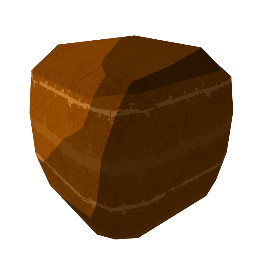
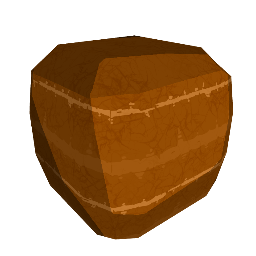
Messing with HUD layout.

diff --git a/scripts/Main/Miniature.ts b/scripts/Main/Miniature.ts
@@ -88,14 +88,16 @@ class Miniature extends Main {
 
 		Main.Scene.clearColor.copyFromFloats(0, 0, 0, 0);
 
-        setTimeout(
-            async () => {
-                for (let i = BlockType.Grass; i < BlockType.Unknown; i++) {
-                    await this.createBlock(i);
-                }
-            },
-            100
-        );
+		window.addEventListener("pointerup", () => {
+			setTimeout(
+				async () => {
+					for (let i = BlockType.Grass; i < BlockType.Unknown; i++) {
+						await this.createBlock(i);
+					}
+				},
+				300
+			);
+		});
 	}
 
 	public async createBlock(blockType: BlockType): Promise<void> {
@@ -123,6 +125,7 @@ class Miniature extends Main {
         vertexData.applyToMesh(block);
 		
 		let material = new PlanetMaterial("chunck-material", this.scene);
+		material.setLightInvDir((new BABYLON.Vector3(- 3, 2, 1)).normalize());
         material.setPlanetPos(new BABYLON.Vector3(0, - 10, 0));
         block.material = material;
 		
@@ -135,7 +138,7 @@ class Miniature extends Main {
                         this.updateCameraPosition();
                         setTimeout(
                             async () => {
-								await this.makeScreenShot("block-icon-" + BlockTypeNames[blockType], false);
+								await this.makeScreenShot("block-icon-" + BlockTypeNames[blockType], 0);
 								block.dispose();
                                 resolve();
                             },
@@ -148,7 +151,7 @@ class Miniature extends Main {
         )
 	}
 
-	public async makeScreenShot(miniatureName?: string, desaturate: boolean = true): Promise<void> {
+	public async makeScreenShot(miniatureName?: string, desaturation: number = 0): Promise<void> {
 		return new Promise<void>(
 			resolve => {
 				requestAnimationFrame(
@@ -173,54 +176,21 @@ class Miniature extends Main {
 									context.drawImage(img, sx, sy, 256, 256, 0, 0, 256, 256);
 
 									let data = context.getImageData(0, 0, 256, 256);
-									for (let i = 0; i < data.data.length / 4; i++) {
-										let r = data.data[4 * i];
-										let g = data.data[4 * i + 1];
-										let b = data.data[4 * i + 2];
-										/*if (r === 0 && g === 255 && b === 0) {
-											data.data[4 * i] = 0;
-											data.data[4 * i + 1] = 0;
-											data.data[4 * i + 2] = 0;
-											data.data[4 * i + 3] = 0;
-										}
-										else*/ if (desaturate) {
+
+									if (desaturation > 0) {
+										for (let i = 0; i < data.data.length / 4; i++) {
+											let r = data.data[4 * i];
+											let g = data.data[4 * i + 1];
+											let b = data.data[4 * i + 2];
 											let desat = (r + g + b) / 3;
 											desat = Math.floor(Math.sqrt(desat / 255) * 255);
-											data.data[4 * i] = desat;
-											data.data[4 * i + 1] = desat;
-											data.data[4 * i + 2] = desat;
-											data.data[4 * i + 3] = 255;
+	
+											data.data[4 * i] = Math.floor(data.data[4 * i] * (1 - desaturation) + desat * desaturation);
+											data.data[4 * i + 1] = Math.floor(data.data[4 * i + 1] * (1 - desaturation) + desat * desaturation);
+											data.data[4 * i + 2] = Math.floor(data.data[4 * i + 2] * (1 - desaturation) + desat * desaturation);
 										}
 									}
-									/*
-									for (let i = 0; i < data.data.length / 4; i++) {
-										let a = data.data[4 * i + 3];
-										if (a === 0) {
-											let hasColoredNeighbour = false;
-											for (let ii = -2; ii <= 2; ii++) {
-												for (let jj = -2; jj <= 2; jj++) {
-													if (ii !== 0 || jj !== 0) {
-														let index = 4 * i + 3;
-														index += ii * 4;
-														index += jj * 4 * 256;
-														if (index >= 0 && index < data.data.length) {
-															let aNeighbour = data.data[index];
-															if (aNeighbour === 255) {
-																hasColoredNeighbour = true;
-															}
-														}
-													}
-												}
-											}
-											if (hasColoredNeighbour) {
-												data.data[4 * i] = 255;
-												data.data[4 * i + 1] = 255;
-												data.data[4 * i + 2] = 255;
-												data.data[4 * i + 3] = 254;
-											}
-										}
-									}
-									*/
+																		
 									context.putImageData(data, 0, 0);
 
 									var tmpLink = document.createElement( 'a' );

diff --git a/scripts/UI/HeadUpDisplay.ts b/scripts/UI/HeadUpDisplay.ts
@@ -57,6 +57,25 @@ class HeadUpDisplay extends BABYLON.Mesh {
                 strokeWidth: 20
             })
         );
+        hudSlika.add(
+            new SlikaPath({
+                points: [
+                    M, 500 + M + L1,
+                    M + L1, 500 + M,
+                    (500 - M), 500 + M,
+                    (500 - M), 500 + (500 - M) - L1,
+                    (500 - M) - L2, 500 + (500 - M) - L1,
+                    (500 - M) - L2 - L1, 500 + (500 - M),
+                    M, 500 + (500 - M)
+                ],
+                close: true,
+                fillColor: BABYLON.Color3.Black(), 
+                fillAlpha: 0.3,
+                strokeColor: BABYLON.Color3.White(), 
+                strokeAlpha: 0.5,
+                strokeWidth: 10
+            })
+        );
 
         let angularMargin = 0.04;
         let size = 0.055;
@@ -98,7 +117,13 @@ class HeadUpDisplay extends BABYLON.Mesh {
             let beta = - yAngleSide * 0.5 + angularMargin + (yAngleSide - 2 * angularMargin) * b / 9;
 
             let hudLateralTile = new BABYLON.Mesh("hud-lateral-tile-" + b);
-            VertexDataUtils.CreatePlane(size, size, undefined, undefined, 0, 0.5, 0.5, 1).applyToMesh(hudLateralTile);
+            let highlight = Math.random() > 0.5
+            if (highlight) {
+                VertexDataUtils.CreatePlane(size, size, undefined, undefined, 0, 0.5, 0.5, 1).applyToMesh(hudLateralTile);
+            }
+            else {
+                VertexDataUtils.CreatePlane(size, size, undefined, undefined, 0, 0, 0.5, 0.5).applyToMesh(hudLateralTile);
+            }
             hudLateralTile.layerMask = 0x10000000;
             hudLateralTile.alphaIndex = 1;
             hudLateralTile.parent = this;
@@ -108,7 +133,9 @@ class HeadUpDisplay extends BABYLON.Mesh {
             hudLateralTile.position.z = Math.cos(beta);
             hudLateralTile.rotationQuaternion = BABYLON.Quaternion.Identity();
             VMath.QuaternionFromZYAxisToRef(hudLateralTile.position, BABYLON.Axis.Y, hudLateralTile.rotationQuaternion);
-            hudLateralTile.rotateAround(BABYLON.Vector3.Zero(), BABYLON.Axis.Y, - (xAngle * 0.5 - angularMargin));
+            let h = Math.abs(beta / yAngleSide);
+            h = h * h;
+            hudLateralTile.rotateAround(BABYLON.Vector3.Zero(), BABYLON.Axis.Y, - (xAngle * 0.5 - h * xAngle * 0.08 - angularMargin));
 
 
             let v0 = b * 0.1;

diff --git a/scripts/Slika/SlikaPath.ts b/scripts/Slika/SlikaPath.ts
@@ -136,15 +136,15 @@ class SlikaPath extends SlikaElement {
 
         if (this.prop.points.length > 0) {
 
-            let fillStyle = "none";
+            let fillStyle = "";
             if (this.prop.fillColor) {
                 fillStyle = this.prop.fillColor.toHexString() + Math.floor((this.prop.fillAlpha * this.alpha) * 255).toString(16).padStart(2, "0");
             }
-            let strokeStyle = "none";
+            let strokeStyle = "";
             if (this.prop.strokeColor) {
                 strokeStyle = this.prop.strokeColor.toHexString() + Math.floor((this.prop.strokeAlpha * this.alpha) * 255).toString(16).padStart(2, "0");
             }
-            let outlineStyle = "none";
+            let outlineStyle = "";
             if (this.prop.outlineWidth > 0) {
                 outlineStyle = this.prop.outlineColor.toHexString() + Math.floor((this.prop.outlineAlpha * this.alpha) * 255).toString(16).padStart(2, "0");
             }
@@ -163,16 +163,16 @@ class SlikaPath extends SlikaElement {
                 context.closePath();
             }
 
-            if (outlineStyle != "none") {
+            if (outlineStyle != "") {
                 context.lineWidth = lineWidth + this.prop.outlineWidth * 2 * hsf;
                 context.strokeStyle = outlineStyle;
                 context.stroke();
             }
-            if (fillStyle != "none") {
+            if (fillStyle != "") {
                 context.fillStyle = fillStyle;
                 context.fill();
             }
-            if (strokeStyle != "none") {
+            if (strokeStyle != "") {
                 context.strokeStyle = strokeStyle;
                 context.lineWidth = lineWidth;
                 context.stroke();

diff --git a/scripts/Planet/PlanetMaterial.ts b/scripts/Planet/PlanetMaterial.ts
@@ -7,6 +7,7 @@ class PlanetMaterial extends BABYLON.ShaderMaterial {
     private _seaLevelTexture: BABYLON.Texture;
     private _useVertexColor: number;
     private _planetPos: BABYLON.Vector3 = BABYLON.Vector3.Zero();
+    private _lightInvDirW: BABYLON.Vector3 = BABYLON.Vector3.One().normalize();
 
     constructor(name: string, scene: BABYLON.Scene) {
         super(
@@ -35,7 +36,6 @@ class PlanetMaterial extends BABYLON.ShaderMaterial {
                 ]
             }
         );
-        this.setVector3("lightInvDirW", BABYLON.Vector3.One().normalize());
 
         this._terrainColors = [];
         this._terrainColors[BlockType.None] = new BABYLON.Color3(0, 0, 0);
@@ -96,6 +96,7 @@ class PlanetMaterial extends BABYLON.ShaderMaterial {
         iceTexture.wrapU = 1;
         iceTexture.wrapV = 1;
 
+        this.setVector3("lightInvDirW", this._lightInvDirW);
         this.setColor3("globalColor", this._globalColor);
         this.setColor3Array("terrainColors", this._terrainColors);
         this.setSeaLevelTexture(undefined);
@@ -111,6 +112,15 @@ class PlanetMaterial extends BABYLON.ShaderMaterial {
         this.setTexture("leafTexture", leafTexture);
         this.setTexture("iceTexture", iceTexture);
         this.setPlanetPos(BABYLON.Vector3.Zero());
+    }
+
+    public getLightInvDir(): BABYLON.Vector3 {
+        return this._lightInvDirW;
+    }
+
+    public setLightInvDir(p: BABYLON.Vector3): void {
+        this._lightInvDirW.copyFrom(p);
+        this.setVector3("lightInvDirW", this._lightInvDirW);
     }
 
     public getGlobalColor(): BABYLON.Color3 {

diff --git a/scripts/Main/MainMenu.ts b/scripts/Main/MainMenu.ts
@@ -147,7 +147,7 @@ class MainMenu extends Main {
 						this.actionManager = new PlayerActionManager(this.player, hud, this);
 						this.actionManager.initialize();
 						let ass = async () => {
-							let slotIndex = 1;
+							let slotIndex = 0;
 							for (let i = BlockType.Grass; i < BlockType.Unknown; i++) {
 								this.actionManager.linkAction(await PlayerActionTemplate.CreateBlockAction(this.player, i), slotIndex);
 								slotIndex++;
